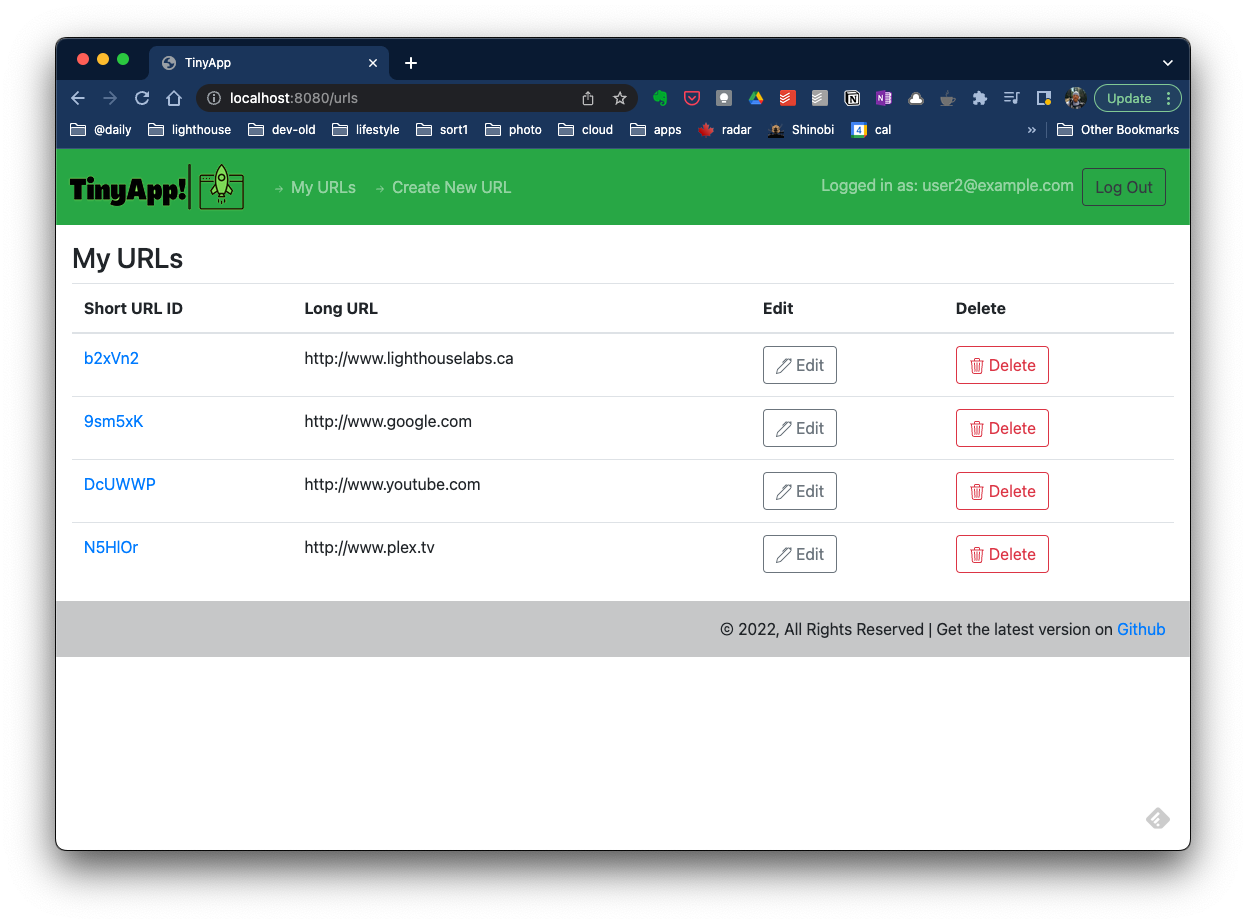
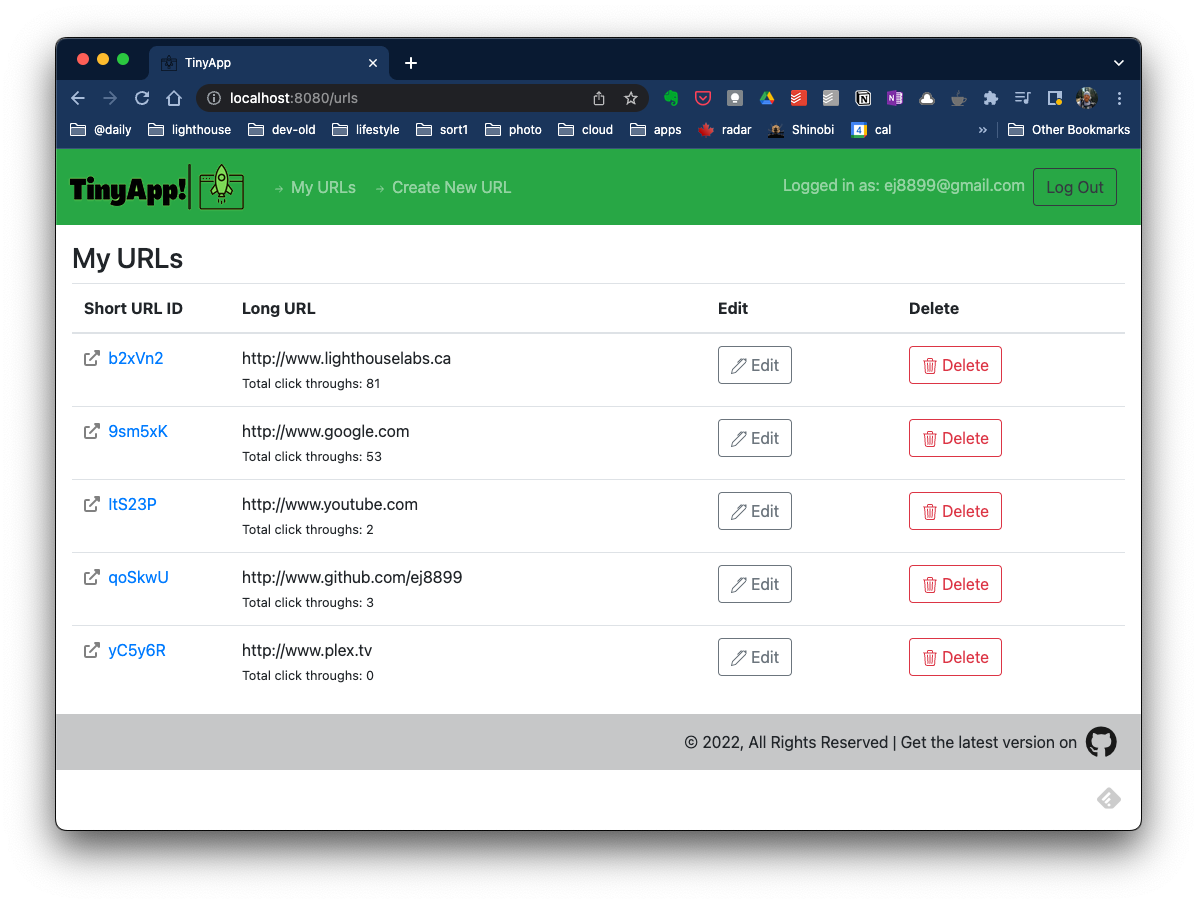
update main URL list w clickthru counts

Changed region(s): [[0.0309, 0.031, 0.9582, 0.9292]]

diff --git a/express_server.js b/express_server.js
@@ -68,7 +68,11 @@ const trackingDatabase = {
   "9sm5xK": {
     lid: "9sm5xK",
     totalClicks: 53,
-  }
+  },
+  "b2xVn2": {
+    lid: "b2xVn2",
+    totalClicks: 79,
+  },
 };
 
 // analytics database: click LOG
@@ -296,7 +300,7 @@ app.get("/urls", (req, res) => {
     res.render("login.ejs", {loginPage: "yes"});
   } else {
     consolelog(uid + ": in the user database is: " + JSON.stringify(uidData));
-    const templateVars = { urls: urlDatabase, user: uidData};
+    const templateVars = { urls: urlDatabase, user: uidData, tracking: trackingDatabase};
     res.render("urls_index.ejs", templateVars);
   }
 });

diff --git a/README.md b/README.md
@@ -60,6 +60,7 @@ You'll be directed to the login page.  An account is required to create and mana
 - incorrect password sends error to user
 - trying to create duplicate accounts sends error to user
 - _stretch_: shows total clicks on a tiny url (in edit page)
+- _stretch_: create click through log for each tiny URL
 ---
 ## Future Plans:
 - dark mode
